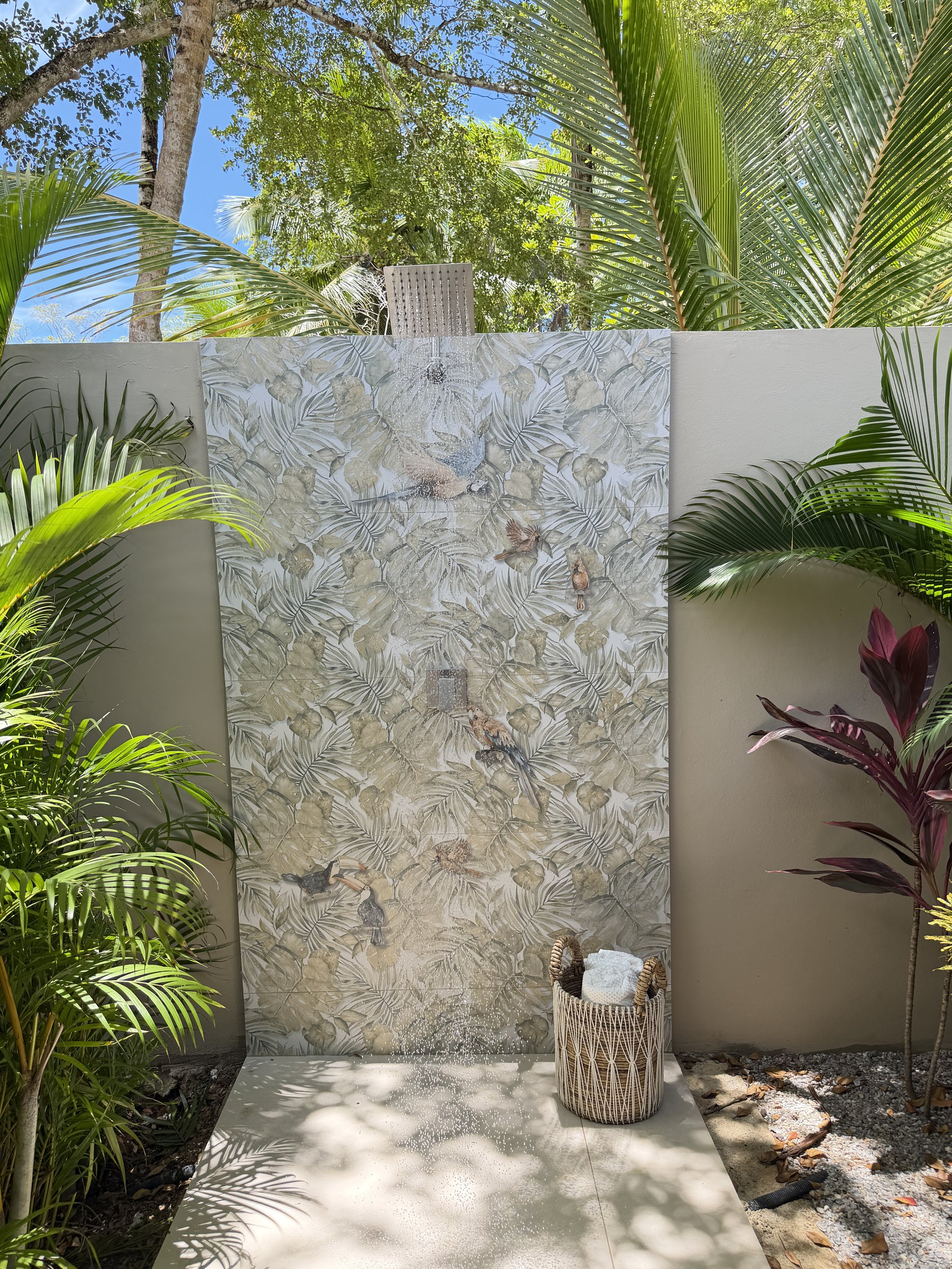
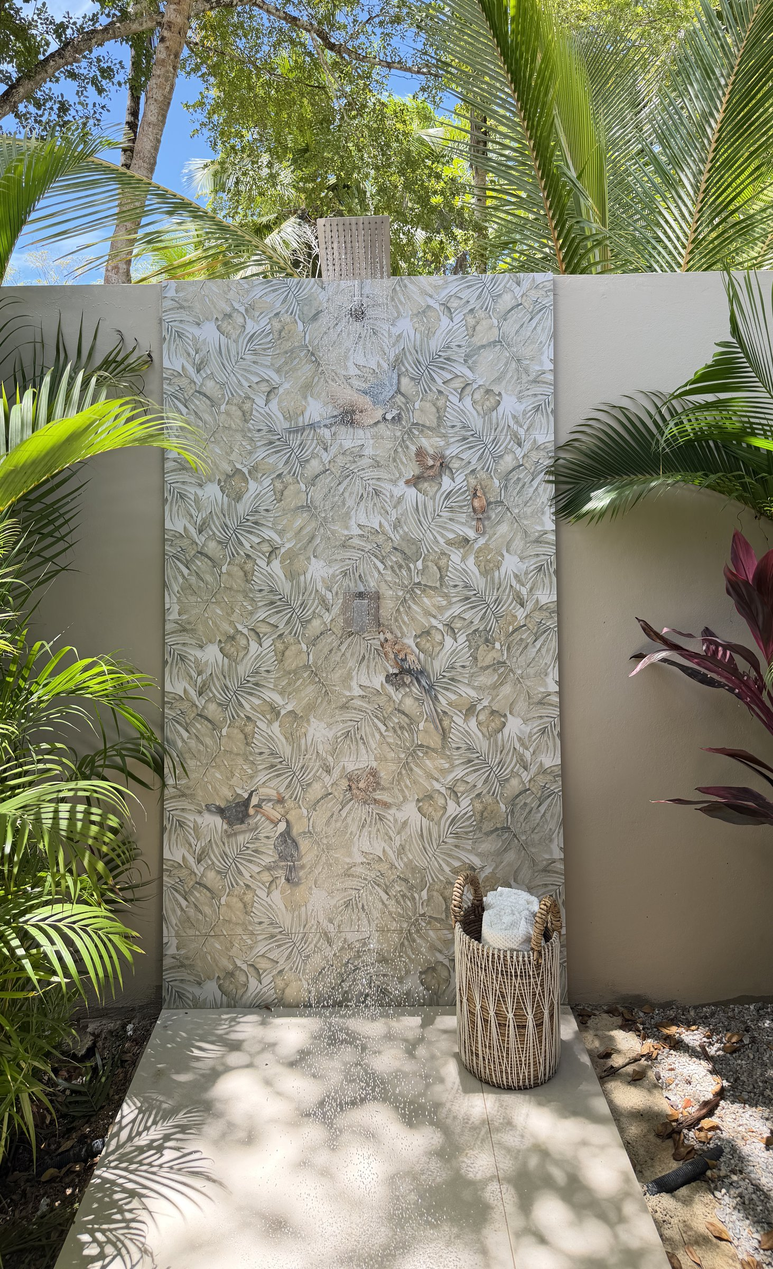
Collage villa agrandi sur mobile + douche extérieure redressée

diff --git a/de/index.html b/de/index.html
@@ -948,6 +948,7 @@ nav.scrolled .nav-lang button+button{border-left-color:rgba(26,18,8,.2)}
   position:relative;z-index:4;
 }
 @media(max-width:880px){.villa-photo-third{width:58%;margin-top:-10%}}
+@media(max-width:640px){.villa-photo-small{width:80%;margin-top:-14%}.villa-photo-third{width:88%;margin-top:-8%;margin-left:0}}
 
 
 /* ═══════════ PLAYA COSÓN — VOTRE PLAGE ═══════════ */

diff --git a/en/index.html b/en/index.html
@@ -948,6 +948,7 @@ nav.scrolled .nav-lang button+button{border-left-color:rgba(26,18,8,.2)}
   position:relative;z-index:4;
 }
 @media(max-width:880px){.villa-photo-third{width:58%;margin-top:-10%}}
+@media(max-width:640px){.villa-photo-small{width:80%;margin-top:-14%}.villa-photo-third{width:88%;margin-top:-8%;margin-left:0}}
 
 
 /* ═══════════ PLAYA COSÓN — VOTRE PLAGE ═══════════ */

diff --git a/es/index.html b/es/index.html
@@ -948,6 +948,7 @@ nav.scrolled .nav-lang button+button{border-left-color:rgba(26,18,8,.2)}
   position:relative;z-index:4;
 }
 @media(max-width:880px){.villa-photo-third{width:58%;margin-top:-10%}}
+@media(max-width:640px){.villa-photo-small{width:80%;margin-top:-14%}.villa-photo-third{width:88%;margin-top:-8%;margin-left:0}}
 
 
 /* ═══════════ PLAYA COSÓN — VOTRE PLAGE ═══════════ */

diff --git a/index.html b/index.html
@@ -948,6 +948,7 @@ nav.scrolled .nav-lang button+button{border-left-color:rgba(26,18,8,.2)}
   position:relative;z-index:4;
 }
 @media(max-width:880px){.villa-photo-third{width:58%;margin-top:-10%}}
+@media(max-width:640px){.villa-photo-small{width:80%;margin-top:-14%}.villa-photo-third{width:88%;margin-top:-8%;margin-left:0}}
 
 
 /* ═══════════ PLAYA COSÓN — VOTRE PLAGE ═══════════ */

diff --git a/it/index.html b/it/index.html
@@ -948,6 +948,7 @@ nav.scrolled .nav-lang button+button{border-left-color:rgba(26,18,8,.2)}
   position:relative;z-index:4;
 }
 @media(max-width:880px){.villa-photo-third{width:58%;margin-top:-10%}}
+@media(max-width:640px){.villa-photo-small{width:80%;margin-top:-14%}.villa-photo-third{width:88%;margin-top:-8%;margin-left:0}}
 
 
 /* ═══════════ PLAYA COSÓN — VOTRE PLAGE ═══════════ */
